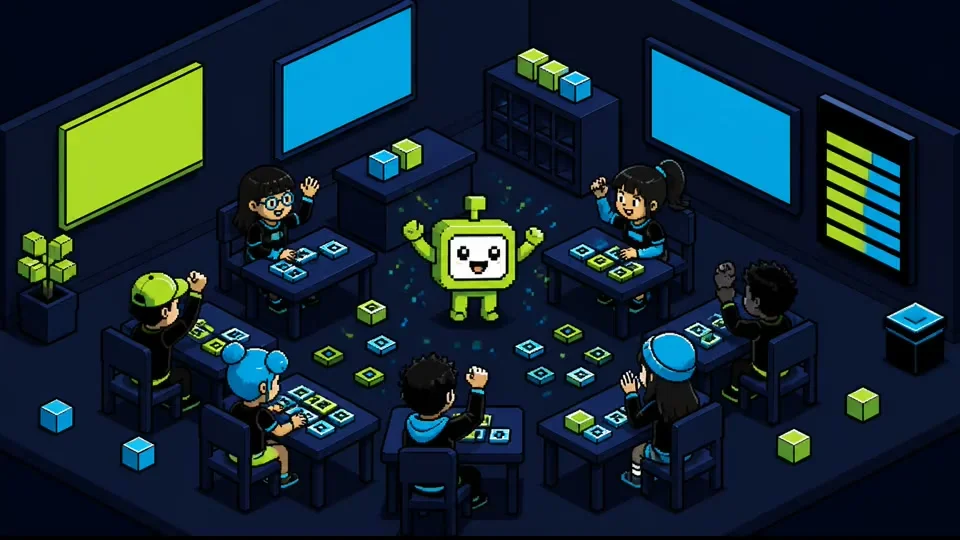
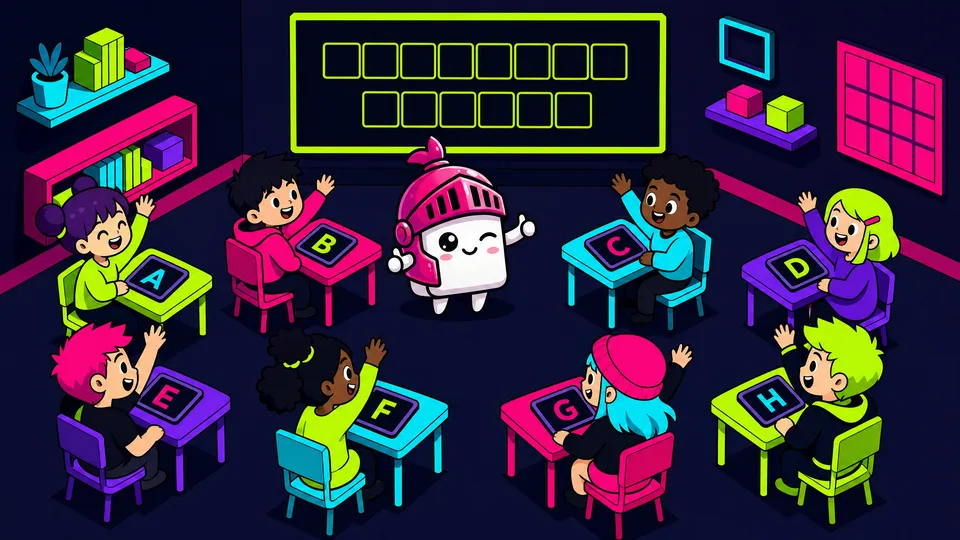
fix(education): put the real mascot on every education page image
The seven images across the education section were drawn with six
different characters, none of them Lexi, and four had garbled text
baked in:

- education-hero-he: nonsense Hebrew on the chalkboard
  ("דן כותץ", "שול מח ישוברם")
- education-hero-es: "SPANISH EDUCTA!" over a fake word grid
- education-hero-ja: a cat mascot, plus "KOREAN" and "PLIDY" on a
  Japanese page
- education-hero-en / sv / access / pro-hero-poster: a green blob, a
  blue tile-person, a cube-head with gloves, and a green pixel robot

These files are also the OpenGraph/Twitter cards for ~14 SEO routes, so
the garbled Hebrew and Spanish were the share cards for every
/he/education/* and /es/education/* page.

Regenerated all seven from the shipped mascot-new-* poses as identity
references. Filenames are unchanged, so all nine on-page consumers and
every OG route pick them up with no code change.

Two constraints the new art is built around, both now documented in
public/images/education/MANIFEST.md:

- Locale variants differ by POSE, never by glyph. No Hebrew, Japanese or
  Swedish characters in the art; letter cubes carry single capital Latin
  letters only. A garbled glyph in an OG card gets scraped and cached.
- EducationHeroBanner renders the <img> as absolute inset-0 object-cover
  inside a <picture> of zero height, so the section is roughly 4:1 and
  only the middle horizontal band is ever visible on the page. Lexi sits
  vertically centred and right of centre; the extreme top and bottom
[…]

diff --git a/fe-next/components/education/EducationHero.tsx b/fe-next/components/education/EducationHero.tsx
@@ -7,6 +7,7 @@ import { trackLandingCtaClick } from '@/utils/growthTracking';
 import { isReducedMotionPreferred } from '@/utils/accessibility';
 import { locales } from '@/lib/i18n';
 import { EducationModeMock } from './EducationModeMock';
+import Mascot from '@/components/ui/Mascot';
 
 /**
  * The hero's language *count* is derived from the shipped locale list rather than
@@ -156,8 +157,23 @@ export function EducationHero() {
             mock is already the second grid child, so it sits right on desktop
             by source order, and any unprefixed `order-first` would hoist it
             above the h1 and the CTA on every viewport under lg. */}
-        <div data-hero-item>
+        <div data-hero-item className="relative">
           <EducationModeMock />
+          {/* Lexi studying next to the live mock — the one genuinely animated
+              element in the hero (scholar.webp is a 98-frame loop, not a still).
+              `clipShape` is not decoration: scholar.webp has an OPAQUE dark
+              background, so unclipped it punches a dark rectangle through the
+              mock's leaderboard card. Clipped to a bordered circle it reads as a
+              deliberate badge instead.
+              Decorative and aria-hidden — the h1 carries the meaning, and the
+              component's fallback alt is an untranslated English string.
+              Hidden under sm so it never crowds the mock on a phone. */}
+          <div
+            aria-hidden
+            className="pointer-events-none absolute -bottom-6 -start-6 hidden sm:block"
+          >
+            <Mascot variant="scholar" size="md" clipShape="circle" clipBorder="lime" />
+          </div>
         </div>
       </div>
     </section>

diff --git a/fe-next/components/education/__tests__/EducationHero.test.tsx b/fe-next/components/education/__tests__/EducationHero.test.tsx
@@ -73,6 +73,22 @@ describe('EducationHero', () => {
     expect(primaryCTA.compareDocumentPosition(mockElement) & Node.DOCUMENT_POSITION_FOLLOWING).toBeTruthy();
   });
 
+  it('renders the animated scholar mascot so the hero has real motion, not a still', () => {
+    render(<EducationHero />);
+    const mascot = Array.from(document.querySelectorAll('img')).find((img) =>
+      (img.getAttribute('src') ?? '').includes('scholar'),
+    );
+    expect(mascot).toBeTruthy();
+  });
+
+  it('keeps the mascot decorative — hidden from assistive tech, copy carries the meaning', () => {
+    render(<EducationHero />);
+    const mascot = Array.from(document.querySelectorAll('img')).find((img) =>
+      (img.getAttribute('src') ?? '').includes('scholar'),
+    );
+    expect(mascot?.closest('[aria-hidden="true"]')).toBeTruthy();
+  });
+
   it('does not apply unprefixed order-* classes to the mock (prevents mobile reflow)', () => {
     const { container } = render(<EducationHero />);
     const mockElement = screen.getByTestId('mock-join-code').closest('[data-hero-item]');

diff --git a/fe-next/public/images/education/MANIFEST.md b/fe-next/public/images/education/MANIFEST.md
@@ -2,6 +2,11 @@
 
 Two static images. Both are wired into components; nothing here is unused.
 
+> **2026-09-01 — the whole education art set was regenerated.** Read
+> "Education hero set" at the bottom before regenerating anything here: the seven
+> shipped files were drawn with **six different mascots**, none of them Lexi, and
+> four had garbled text baked in. The rules below exist because of that.
+
 Every size and measurement below was taken from the file on disk on 2026-08-25
 (`wc -c`, `ffprobe`, `ffmpeg ssim`). An earlier version of this manifest quoted
 sizes and a motion figure that no shipped file ever had — see "Dropped assets".
@@ -24,7 +29,8 @@ the cards make below it, in one glance.
 
 ## pro-hero-poster.webp — classroom mid-game
 
-- 54,540 bytes, 960×540
+- 69,260 bytes, 960×540 (regenerated 2026-09-01; was 54,540 bytes and showed a
+  **green pixel robot** instead of Lexi)
 - Used by `app/[locale]/teacher/upgrade/PageClient.tsx`, above the pricing cards,
   with `priority` (it is above the fold on the one page that takes payment)
 - Alt: `teacher.subscription.proHeroAlt`
@@ -51,3 +57,48 @@ were deleted. Measured, not assumed:
 If motion is wanted here later, generate it and verify the same way before
 wiring it: extract frames, look at them, and measure. A generation prompt asking
 for motion is not evidence that motion arrived.
+
+**Motion on the education landing is now solved without new assets:** the hero's
+right column carries `<Mascot variant="scholar">` (`/mascot/scholar.webp`, 98
+frames, 181 KB, already in the shipped mascot set). It is clipped to a circle on
+purpose — that file has an OPAQUE dark background and unclipped it punches a
+dark rectangle through the mock's leaderboard card.
+
+## Education hero set (one directory up, in `public/images/`)
+
+Regenerated 2026-09-01. `education-hero-{en,he,sv,ja,es}.{webp,jpg}` +
+`education-access-hero.webp`. Every one of them previously showed a **different**
+character — a green blob, a cat, a blue tile-person, a cube-head — and none was
+Lexi. Four had garbled text baked in: the Hebrew board read as nonsense
+(`דן כותץ`, `שול מח ישוברם`), the Spanish said `SPANISH EDUCTA!` over a fake word
+grid, the Japanese page carried `KOREAN` and `PLIDY`.
+
+| File | Bytes | Dimensions | Lexi's pose |
+|---|---|---|---|
+| `education-hero-en` | 60,192 webp / 111,035 jpg | 1200×675 | reading, glasses |
+| `education-hero-he` | 66,738 / 118,143 | 1200×675 | cheering at a lime cube |
+| `education-hero-sv` | 74,148 / 124,478 | 1200×675 | at the board with chalk |
+| `education-hero-ja` | 78,512 / 133,361 | 1200×675 | grad cap, mid-jump |
+| `education-hero-es` | 75,868 / 132,546 | 1200×675 | holding a trophy |
+| `education-access-hero` | 63,626 webp | 918×880 | grad cap, waving on a podium |
+
+Rules for anyone regenerating these:
+
+- **Locale variants differ by POSE, never by glyph.** No Hebrew, Japanese, or
+  Swedish characters in the art. These files are also the OpenGraph/Twitter cards
+  for ~14 SEO routes, so a garbled glyph gets scraped and cached by Google and
+  Facebook — which is how the last set's nonsense Hebrew ended up as the share
+  card. Letter cubes carry single capital **Latin** letters only.
+- **Composition must survive a brutal crop.** `EducationHeroBanner.tsx` renders
+  the `<img>` as `absolute inset-0 object-cover` inside a `<picture>` that
+  contributes zero height, so the section's height comes from its text block
+  (~350 px at ~1150 px wide ≈ 4:1). Only the middle horizontal band is visible
+  on the page; the full 16:9 frame is only ever seen as an OG card. Put Lexi
+  vertically centred and right of centre, fill the left half with classroom, and
+  keep the extreme top and bottom edges free of anything load-bearing.
+- **Both formats.** `<source srcSet={webp}>` with an `<img src={jpg}>` fallback —
+  replacing only the webp leaves the old art being served to some clients.
+- **Byte budget is real.** That `<img>` is `loading="eager" fetchPriority="high"`,
+  the LCP element on 9+ pages. Stay at or under the numbers above.
+- `ru` has no bespoke asset and deliberately reuses `en` (see
+  `EducationHeroBanner.tsx` and `heroImage()` in `lib/seo/educationLanding.ts`).
